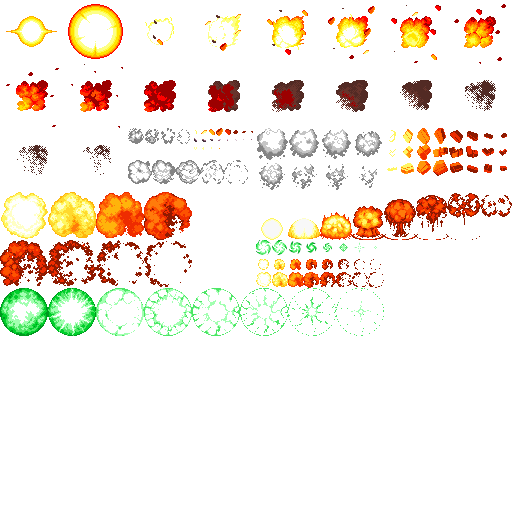
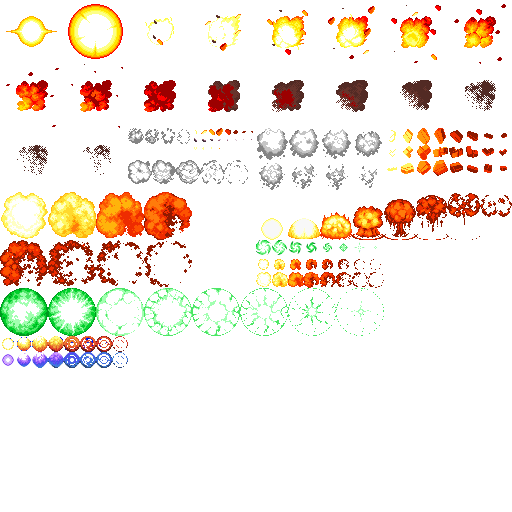
change effect layer

Changed region(s): [[0.0, 0.6562, 0.25, 0.7188]]

diff --git a/src/effect/effectlayer.js b/src/effect/effectlayer.js
@@ -8,10 +8,11 @@
 phina.define("pbr.EffectLayer", {
     superClass: "phina.display.CanvasElement",
 
-    init: function(max) {
+    init: function(option) {
+        option = (option || {}).$safe({size: 64});
         this.superInit();
         this.pool = null;
-        this.max = max || 256;
+        this.max = option.size;
 
         var self = this;
         this.pool = Array.range(0, this.max).map(function() {
@@ -58,17 +59,18 @@ phina.define("pbr.EffectLayer", {
             var vx2 = Math.cos(rad) * v;
             var vy2 = Math.sin(rad) * v;
             var delay2 = delay+rand(0, 10);
-            var pattern = 0;
-            if (i > val-2) pattern = rand(1, 3);
+            var size = 0;
+            if (i > val-2) size = rand(1, 3);
+            this.enterDebri(size, x, y, vx2, vy2, delay2);
         }
     },
 
     //破片
-    enterDebri: function(num, x, y, vx, vy, delay) {
-        num = num || 0;
+    enterDebri: function(size, x, y, vx, vy, delay) {
+        size = size || 0;
+        size = Math.clamp(size, 0, 3);
         delay = delay || 0;
-        num = Math.clamp(num, 0, 3);
-        if (num == 0) {
+        if (size == 0) {
             this.enter({
                 assetName: "effect",
                 width: 8,
@@ -77,28 +79,56 @@ phina.define("pbr.EffectLayer", {
                 startIndex: 0,
                 maxIndex: 8,
                 delay: delay,
-                trimming: {x: 192, y: 128, wisth: 64, height: 48},
+                trimming: {x: 192, y: 128, width: 64, height: 48},
                 position: {x: x, y: y},
-                velocity: {x: vx, y: vy, decay: decay},
+                velocity: {x: vx, y: vy, decay: 0.9},
             });
         } else {
-            num--;
+            size--;
             this.enter({
                 assetName: "effect",
                 width: 16,
                 height: 16,
                 interval: 4,
-                startIndex: num*8,
-                maxIndex: (num+1)*8-1,
+                startIndex: size*8,
+                maxIndex: (size+1)*8-1,
                 delay: delay,
-                trimming: {x: 384, y: 128, wisth: 128, height: 48},
+                trimming: {x: 384, y: 128, width: 128, height: 48},
                 position: {x: x, y: y},
-                velocity: {x: vx, y: vy, decay: decay},
+                velocity: {x: vx, y: vy, decay: 0.9},
             });
         }
     },
 
+    //小破片
+    enterDebriSmall: function(x, y, num, delay) {
+        num = num || 5;
+        delay = delay || 0;
+        for (var i = 0; i < num; i++) {
+            var rad = Math.randint(0, 359) * toRad;
+            var v = Math.randint(5, 10);
+            var vx = Math.cos(rad) * v;
+            var vy = Math.sin(rad) * v;
+            var delay = delay+rand(0, 10);
+            this.enter({
+                assetName: "effect",
+                width: 8,
+                height: 8,
+                interval: 2,
+                startIndex: 0,
+                maxIndex: 8,
+                delay: delay,
+                trimming: {x: 192, y: 128, width: 64, height: 48},
+                position: {x: x, y: y},
+                velocity: {x: vx, y: vy, decay: 0.9},
+            });
+        }
+    },
+
+    //ショット着弾
     enterShotImpact: function(x, y, vx, vy) {
+        vx = vx || 0;
+        vy = vy || 0;
         this.enter({
             assetName: "effect",
             width: 16,
@@ -106,9 +136,26 @@ phina.define("pbr.EffectLayer", {
             interval: 2,
             startIndex: 0,
             maxIndex: 7,
-            trimming: {x: 256, y: 240, wisth: 128, height: 16},
+            trimming: {x: 256, y: 240, width: 128, height: 16},
             position: {x: x, y: y},
-            velocity: {x: vx, y: vy, decay: decay},
+            velocity: {x: vx, y: vy, decay: 0.9},
+        });
+    },
+
+    //敵弾消失
+    enterBulletVanish: function(x, y, vx, vy) {
+        vx = vx || 0;
+        vy = vy || 0;
+        this.enter({
+            assetName: "effect",
+            width: 16,
+            height: 16,
+            interval: 4,
+            startIndex: 0,
+            maxIndex: 7,
+            trimming: {x: 0, y: 336, width: 128, height: 48},
+            position: {x: x, y: y},
+            velocity: {x: vx, y: vy, decay: 0.95},
         });
     },
 });

diff --git a/src/effect/effect.js b/src/effect/effect.js
@@ -61,13 +61,14 @@ phina.define("pbr.Effect.EffectBase", {
             enterframe: null,
             isGround: false,
             trimming: null,
+            position: {x: SC_W, y: SC_H},
+            velocity: {x: 0, y: 0, decay: 1.0},
         },
     },
 
     init: function() {
         this.$safe(this._member);
-        option = (option || {}).$safe(this.defaultOption);
-        this.superInit(option.assetName, option.width, option.height);
+        this.superInit("effect");
 
         this.on("enterframe", this.defaultEnterframe);
 
@@ -80,13 +81,13 @@ phina.define("pbr.Effect.EffectBase", {
     setup: function(option) {
         option = (option || {}).$safe(this.defaultOption);
         if (this.assetName != option.assetName) {
-            this.setImage(phina.assetManager.asset('image', option.assetName));
-            this.width = option.width;
-            this.height = option.height;
+            this.image = phina.asset.AssetManager.get('image', option.assetName)
         }
+        this.width = option.width;
+        this.height = option.height;
 
         this.setPosition(option.position.x, option.position.y);
-        this.setVelocity(option.velocity.x, option.velocity.y, option.velocity.decay );
+        this.setVelocity(option.velocity.x, option.velocity.y, option.velocity.decay);
 
         //初期値セット
         this.interval = option.interval;
@@ -96,7 +97,7 @@ phina.define("pbr.Effect.EffectBase", {
         if (this.delay < 0) this.delay *= -1;
         this.loop = option.loop;
         this.time = -this.delay;
-
+        
         //トリミング設定
         var tr = option.trimming || {x:0, y: 0, width: this.image.width, height: this.image.height};
         this.setFrameTrimming(tr.x, tr.y, tr.width, tr.height);

diff --git a/src/scene/mainscene.js b/src/scene/mainscene.js
@@ -81,6 +81,14 @@ phina.define("pbr.MainScene", {
                     this.layers[i] = pbr.ShotLayer().addChildTo(this.base);
                     this.shotLayer = this.layers[i];
                     break;
+                case LAYER_EFFECT_UPPER:
+                    this.layers[i] = pbr.EffectLayer({size: 256}).addChildTo(this.base);
+                    this.effectLayerUpper = this.layers[i];
+                    break;
+                case LAYER_EFFECT_LOWER:
+                    this.layers[i] = pbr.EffectLayer({size: 256}).addChildTo(this.base);
+                    this.effectLayerLower = this.layers[i];
+                    break;
                 default:
                     this.layers[i] = phina.display.Layer().addChildTo(this.base);
             }

diff --git a/src/player/shot.js b/src/player/shot.js
@@ -92,9 +92,9 @@ phina.define("pbr.Shot", {
     },
 
     vanish: function() {
-        var parentScene = this.shotLayer.parentScene;
-        pbr.Effect.ShotImpact().addChildTo(parentScene).setPosition(this.x, this.y);
-        pbr.Effect.enterDebrisSmall(parentScene, this.x, this.y, 1);
+        var layer = this.shotLayer.parentScene.effectLayerUpper;
+        layer.enterShotImpact(this.x, this.y);
+        layer.enterDebriSmall(this.x, this.y, 1);
     },
 });
 

diff --git a/src/bullet/bullet.js b/src/bullet/bullet.js
@@ -121,10 +121,8 @@ phina.define("pbr.Bullet", {
     },
 
     erase: function() {
-        pbr.Effect.BulletVanish()
-            .addChildTo(this.bulletLayer)
-            .setPosition(this.x, this.y)
-            .setVelocity(this.vx, this.vy, 0.95);
+        var layer = this.bulletLayer.parentScene.effectLayerUpper;
+        layer.enterBulletVanish(this.x, this.y, this.vx, this.vy, 0.95);
     },
 });
 

diff --git a/index.html b/index.html
@@ -28,6 +28,7 @@
     <script src='src/player/item.js'></script>
 
     <script src='src/effect/effect.js'></script>
+    <script src='src/effect/effectlayer.js'></script>
     <script src='src/effect/effectutility.js'></script>
 
     <script src='src/enemy/enemy.js'></script>
